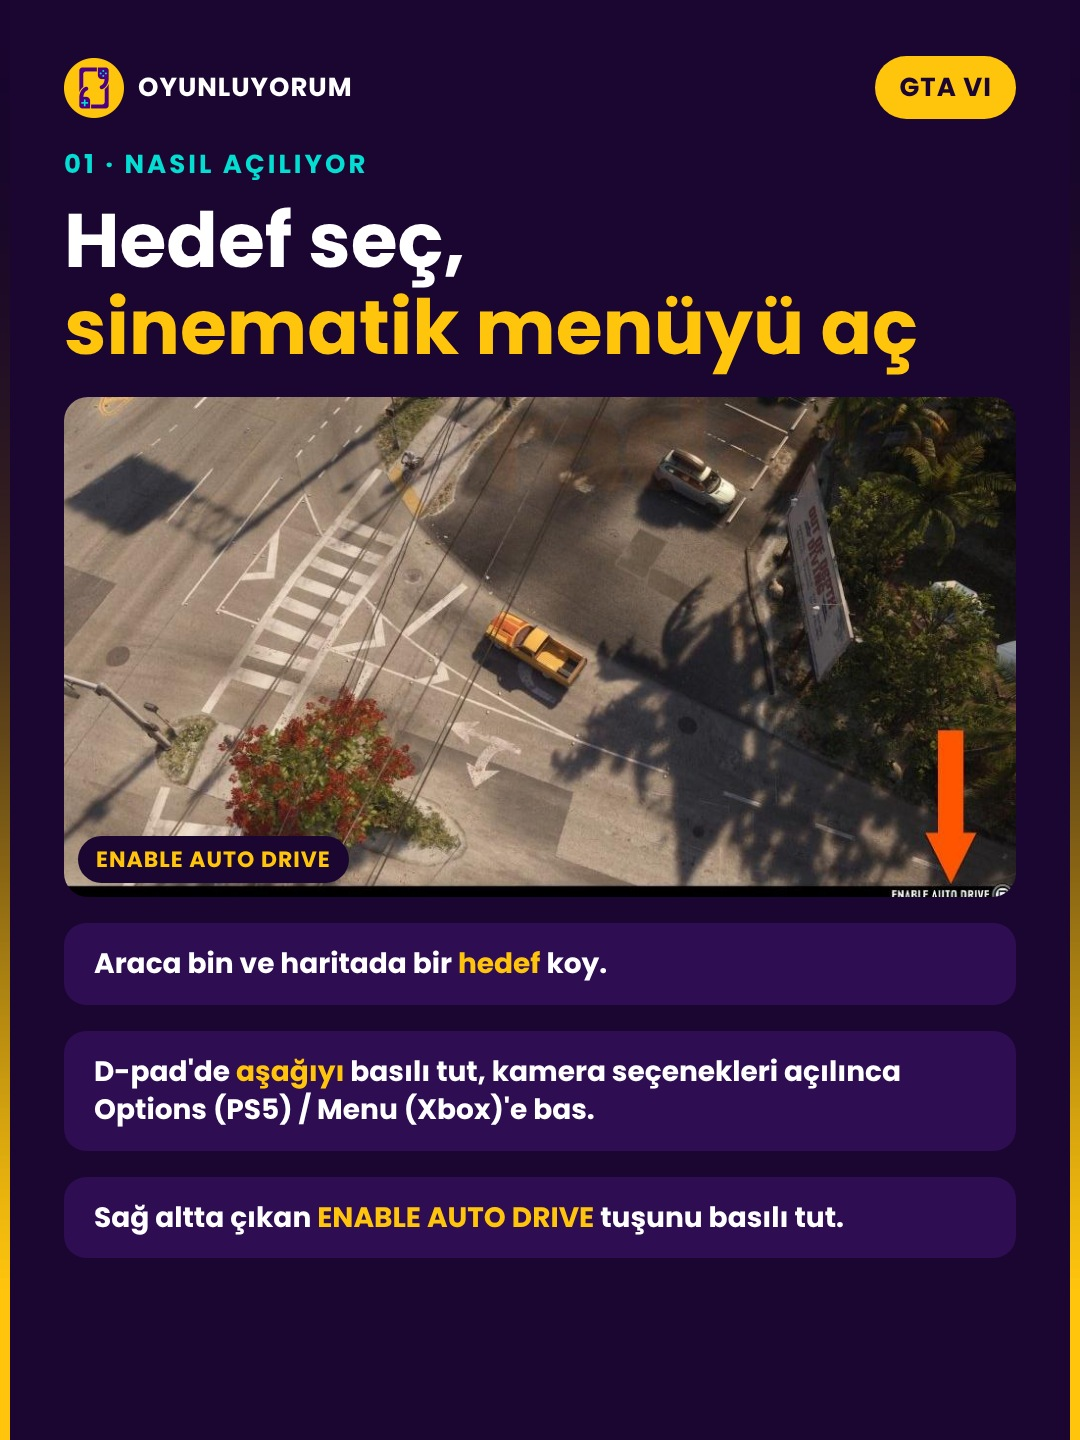
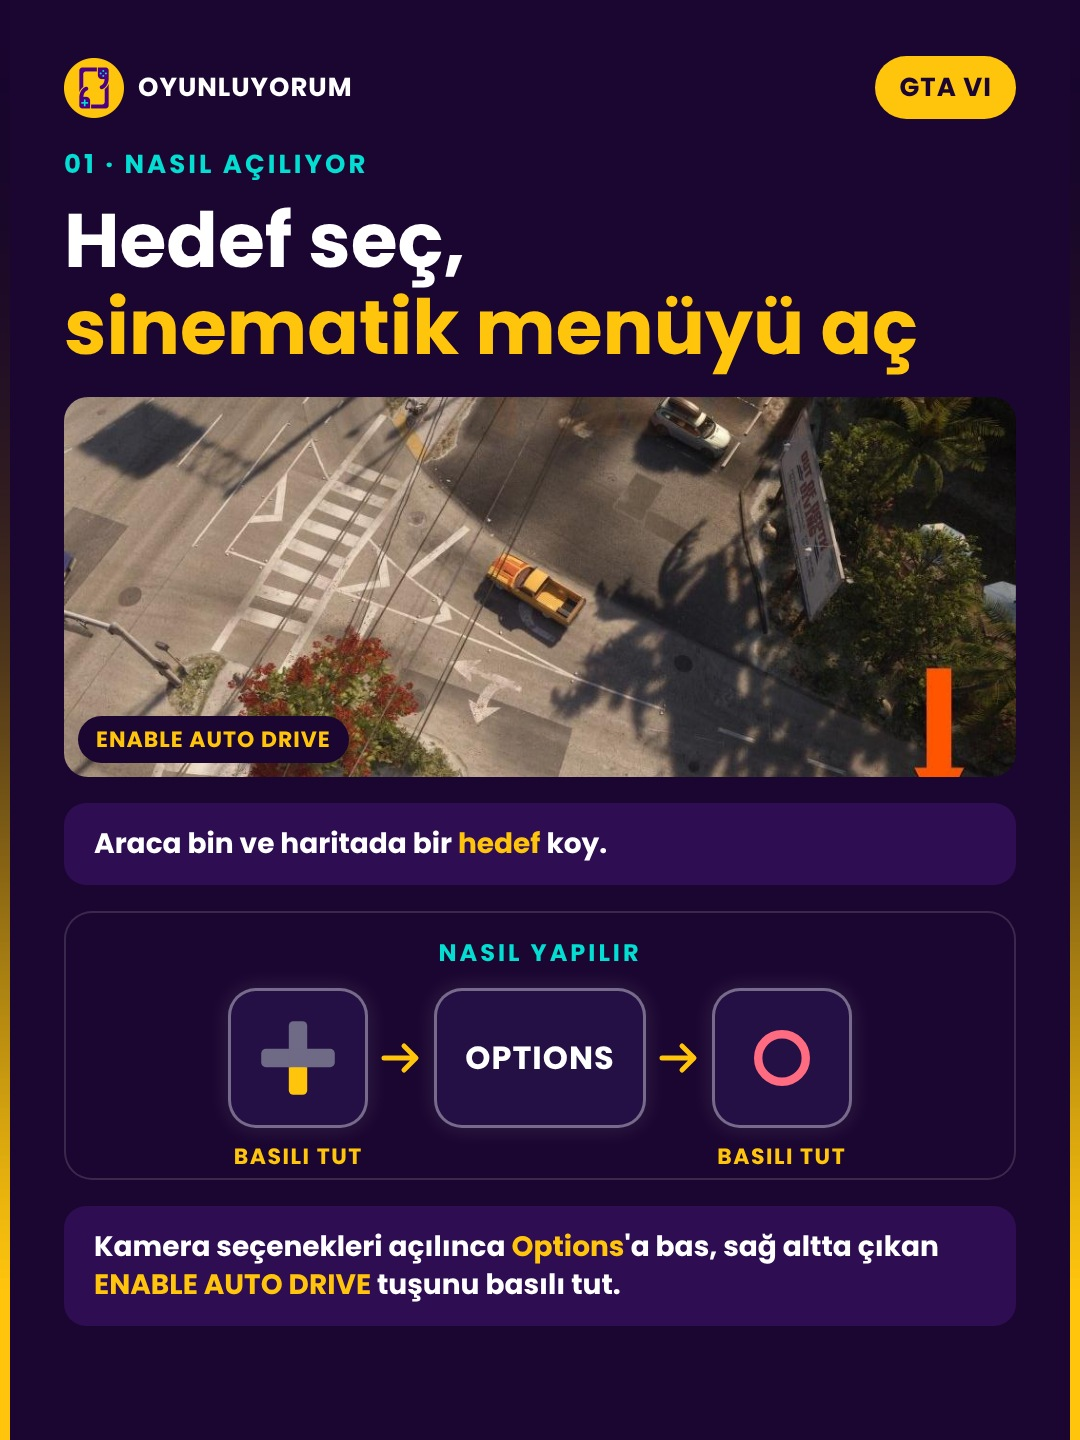
Tuş kombinasyonu görsel bileşeni (tools/tus.py) + otomatik sürüş karuseli güncellendi
Claude-Session: https://claude.ai/code/session_01Cfy9VgEXWVL5ta7MT2PpLs

diff --git a/tools/tus.py b/tools/tus.py
@@ -1,0 +1,156 @@
+"""Oyunluyorum karusel tuş görselleri.
+
+Kullanım (gen.py içinde, slayt HTML'i üreten kodda):
+
+    import sys; sys.path.insert(0,'/home/claude/oyunluyorum-story/tools')
+    from tus import combo, ico
+
+    combo("dpad:down* > options > circle*")          # PS5 (varsayılan)
+    combo("l2* + r2", platform='xbox')               # Xbox: LT + RT
+    combo("dpad:left* > cross", title='NASIL YAPILIR')
+    f"{ico('r3')} bir sonraki açıya geçer."          # metin içi küçük ikon
+
+Sözdizimi:
+    >  sırayla bas (ok çizilir)
+    +  aynı anda bas (artı çizilir)
+    *  basılı tut (altında BASILI TUT etiketi)
+    dpad:up|down|left|right  yönü sarı yanar
+Tuş adları: cross circle square triangle options share touchpad create
+            l1 r1 l2 r2 l3 r3 ls rs dpad
+Xbox karşılıkları otomatik: A B X Y, MENU, LB RB LT RT, LS RS.
+"""
+
+PS = {'cross': '#6EA8FF', 'circle': '#FF6B81', 'square': '#F78FC9', 'triangle': '#4ED49A'}
+XB = {'cross': ('A', '#4ED49A'), 'circle': ('B', '#FF6B81'), 'square': ('X', '#6EA8FF'), 'triangle': ('Y', '#FFC50D')}
+XB_TEXT = {'options': 'MENU', 'l1': 'LB', 'r1': 'RB', 'l2': 'LT', 'r2': 'RT', 'l3': 'LS', 'r3': 'RS', 'ls': 'LS', 'rs': 'RS',
+           'share': 'VIEW', 'touchpad': 'VIEW', 'create': 'VIEW'}
+PS_TEXT = {'options': 'OPTIONS', 'share': 'SHARE', 'create': 'CREATE', 'touchpad': 'TOUCHPAD',
+           'l1': 'L1', 'r1': 'R1', 'l2': 'L2', 'r2': 'R2', 'l3': 'L3', 'r3': 'R3', 'ls': 'L', 'rs': 'R'}
+YELLOW = '#FFC50D'
+CAP_BG = '#241044'
+CAP_BORDER = 'rgba(255,255,255,.38)'
+
+
+def _svg(inner, size, vb=60):
+    return f'<svg width="{size}" height="{size}" viewBox="0 0 {vb} {vb}" style="display:block">{inner}</svg>'
+
+
+def _shape(name, platform):
+    """Kare tuşun içindeki ikon (60x60 görünüm kutusu). Metin tuşlar için None döner."""
+    if platform == 'xbox' and name in XB:
+        ch, col = XB[name]
+        return (f'<circle cx="30" cy="30" r="22" fill="none" stroke="{col}" stroke-width="4"/>'
+                f'<text x="30" y="39" text-anchor="middle" font-size="26" font-weight="800" fill="{col}" '
+                f'font-family="Poppins,sans-serif">{ch}</text>')
+    if name == 'circle':
+        return f'<circle cx="30" cy="30" r="17" fill="none" stroke="{PS["circle"]}" stroke-width="6"/>'
+    if name == 'cross':
+        return (f'<path d="M15 15 L45 45 M45 15 L15 45" stroke="{PS["cross"]}" stroke-width="6" '
+                f'stroke-linecap="round" fill="none"/>')
+    if name == 'square':
+        return f'<rect x="14" y="14" width="32" height="32" rx="5" fill="none" stroke="{PS["square"]}" stroke-width="6"/>'
+    if name == 'triangle':
+        return (f'<path d="M30 12 L48 44 L12 44 Z" fill="none" stroke="{PS["triangle"]}" stroke-width="6" '
+                f'stroke-linejoin="round"/>')
+    return None
+
+
+def _dpad(direction):
+    arms = {'up': (24, 6, 12, 22), 'down': (24, 32, 12, 22), 'left': (6, 24, 22, 12), 'right': (32, 24, 22, 12)}
+    out = ''
+    for d, (x, y, w, h) in arms.items():
+        col = YELLOW if d == direction else '#6F6A86'
+        out += f'<rect x="{x}" y="{y}" width="{w}" height="{h}" rx="3" fill="{col}"/>'
+    out += '<rect x="24" y="24" width="12" height="12" fill="#6F6A86"/>'
+    return out
+
+
+def _cap(inner_html, wide=False):
+    w = 'auto' if wide else '118px'
+    pad = '0 28px' if wide else '0'
+    return (f'<div style="min-width:140px;width:{w};height:140px;box-sizing:border-box;padding:{pad};'
+            f'background:{CAP_BG};border:3px solid {CAP_BORDER};border-radius:28px;display:flex;'
+            f'align-items:center;justify-content:center;box-shadow:0 0 22px rgba(255,255,255,.12)">{inner_html}</div>')
+
+
+def _text(t, size=30):
+    return f'<div style="font-size:{size}px;font-weight:800;letter-spacing:1px;color:#fff;white-space:nowrap">{t}</div>'
+
+
+def key(name, direction=None, platform='ps'):
+    """Tek tuşun HTML'i (kutu içinde)."""
+    name = name.lower()
+    if name == 'dpad':
+        return _cap(_svg(_dpad(direction), 92))
+    sh = _shape(name, platform)
+    if sh:
+        return _cap(_svg(sh, 84))
+    txt = (XB_TEXT if platform == 'xbox' else PS_TEXT).get(name, name.upper())
+    if name in ('l3', 'r3', 'ls', 'rs'):
+        # analog: yuvarlak içinde yazı
+        return _cap(_svg(f'<circle cx="30" cy="30" r="22" fill="none" stroke="#fff" stroke-width="4"/>'
+                         f'<text x="30" y="38" text-anchor="middle" font-size="20" font-weight="800" fill="#fff" '
+                         f'font-family="Poppins,sans-serif">{txt}</text>', 74))
+    return _cap(_text(txt, 38 if len(txt) <= 3 else 32), wide=len(txt) > 3)
+
+
+def _sep(kind):
+    if kind == '+':
+        return f'<div style="font-size:48px;font-weight:800;color:{YELLOW};line-height:140px">+</div>'
+    return ('<svg width="46" height="140" viewBox="0 0 46 140"><path d="M6 70 H36 M26 58 L38 70 L26 82" '
+            f'stroke="{YELLOW}" stroke-width="5" fill="none" stroke-linecap="round" stroke-linejoin="round"/></svg>')
+
+
+def combo(spec, platform='ps', title='NASIL YAPILIR', hold_label='BASILI TUT'):
+    """Kart halinde tuş dizisi. spec: "dpad:down* > options > circle*"."""
+    items = []
+    seq = [s.strip() for s in spec.replace('+', ' + ').replace('>', ' > ').split()]
+    parts, cur = [], []
+    for tok in seq:
+        if tok in ('+', '>'):
+            parts.append(tok)
+        else:
+            parts.append(tok)
+    for tok in parts:
+        if tok in ('+', '>'):
+            items.append(_sep(tok))
+            continue
+        hold = tok.endswith('*')
+        tok = tok.rstrip('*')
+        name, _, arg = tok.partition(':')
+        lab = (f'<div style="margin-top:12px;font-size:22px;font-weight:800;letter-spacing:1.5px;color:{YELLOW};'
+               f'white-space:nowrap;height:26px">{hold_label}</div>') if hold else '<div style="margin-top:12px;height:26px"></div>'
+        items.append(f'<div style="display:flex;flex-direction:column;align-items:center">'
+                     f'{key(name, arg or None, platform)}{lab}</div>')
+    head = (f'<div style="font-size:24px;font-weight:800;letter-spacing:3px;color:#03DDD2;text-align:center">{title}</div>'
+            if title else '')
+    return (f'<div style="background:#1A0630;border:2px solid rgba(255,255,255,.14);border-radius:28px;'
+            f'padding:22px 24px 12px;display:flex;flex-direction:column;gap:18px;align-items:center">{head}'
+            f'<div style="display:flex;align-items:flex-start;justify-content:center;gap:10px">{"".join(items)}</div></div>')
+
+
+def ico(name, size=58, direction=None, platform='ps'):
+    """Metin içi küçük tuş ikonu."""
+    name = name.lower()
+    if name == 'dpad':
+        inner, vb = _dpad(direction), 60
+    else:
+        sh = _shape(name, platform)
+        if sh:
+            inner, vb = sh, 60
+        else:
+            txt = (XB_TEXT if platform == 'xbox' else PS_TEXT).get(name, name.upper())
+            if name in ('l3', 'r3', 'ls', 'rs'):
+                inner = (f'<circle cx="30" cy="30" r="24" fill="none" stroke="#fff" stroke-width="4"/>'
+                         f'<text x="30" y="38" text-anchor="middle" font-size="24" font-weight="800" fill="#fff" '
+                         f'font-family="Poppins,sans-serif">{txt}</text>')
+                vb = 60
+            else:
+                w = max(56, 18 * len(txt) + 24)
+                return (f'<span style="display:inline-flex;align-items:center;justify-content:center;height:{size}px;'
+                        f'min-width:{size}px;padding:0 14px;box-sizing:border-box;margin:0 4px;background:{CAP_BG};'
+                        f'border:2px solid {CAP_BORDER};border-radius:14px;font-size:{int(size*0.5)}px;font-weight:800;'
+                        f'color:#fff;vertical-align:middle;letter-spacing:1px">{txt}</span>')
+    return (f'<span style="display:inline-flex;align-items:center;justify-content:center;width:{size}px;height:{size}px;'
+            f'margin:0 4px;background:{CAP_BG};border:2px solid {CAP_BORDER};border-radius:14px;vertical-align:middle">'
+            f'<svg width="{int(size*0.72)}" height="{int(size*0.72)}" viewBox="0 0 {vb} {vb}">{inner}</svg></span>')
